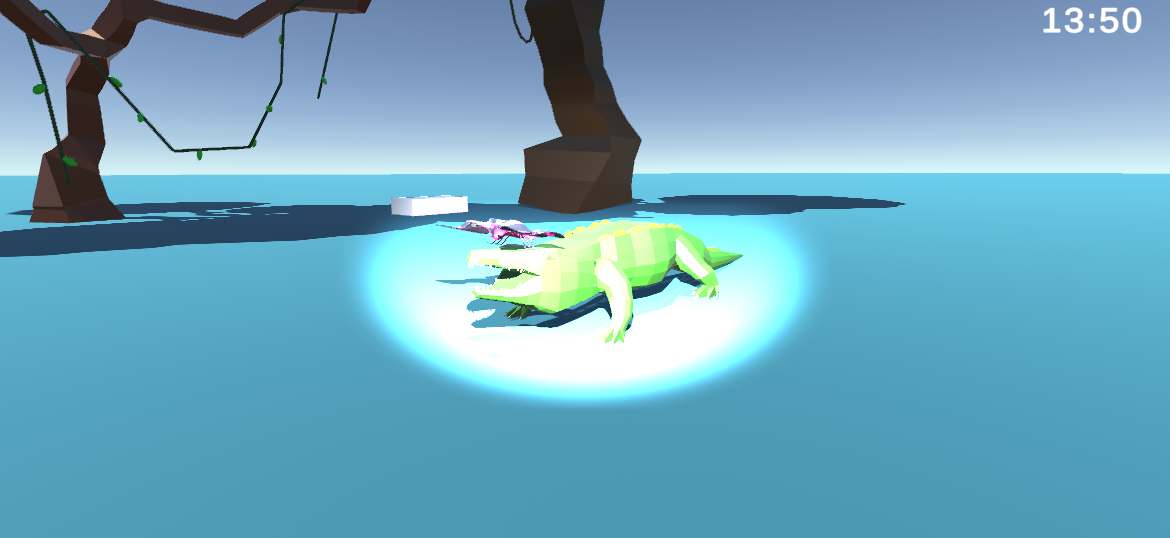
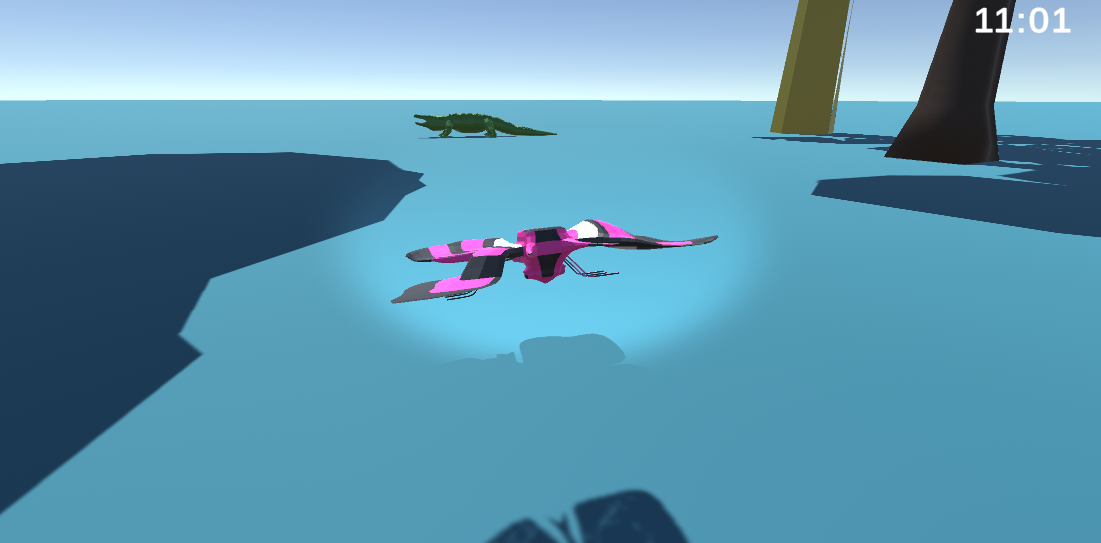
a

diff --git a/3D Project/Assets/Scipts/TimeController.cs b/3D Project/Assets/Scipts/TimeController.cs
@@ -58,6 +58,8 @@ public class TimeController : MonoBehaviour
 
     [SerializeField]
     private Light playerLight;
+    [SerializeField]
+    private Light flashLight;
     // Start is called before the first frame update
     void Start()
     {
@@ -88,7 +90,7 @@ public class TimeController : MonoBehaviour
     {
         float sunLightRotation;
 
-        if(currentTime.TimeOfDay > sunriseTime && currentTime.TimeOfDay < sunsetTime)
+        if (currentTime.TimeOfDay > sunriseTime && currentTime.TimeOfDay < sunsetTime)
         {
             TimeSpan sunriseToSunsetDuration = CalculateTimeDifference(sunriseTime, sunsetTime);
             TimeSpan timeSinceSunrise = CalculateTimeDifference(sunriseTime, currentTime.TimeOfDay);
@@ -102,6 +104,7 @@ public class TimeController : MonoBehaviour
             RenderSettings.ambientIntensity = 1f;
             RenderSettings.reflectionIntensity = 1f;
             playerLight.intensity = 0f;
+            flashLight.intensity = 1f;
         }
         else
         {
@@ -117,6 +120,7 @@ public class TimeController : MonoBehaviour
             RenderSettings.ambientIntensity = 0f;
             RenderSettings.reflectionIntensity = 0f;
             playerLight.intensity = 5f;
+            flashLight.intensity = 10f;
         }
 
         sunLight.transform.rotation = Quaternion.AngleAxis(sunLightRotation, Vector3.right);
@@ -142,7 +146,7 @@ public class TimeController : MonoBehaviour
     {
         TimeSpan difference = toTime - fromTime;
 
-        if(difference.TotalSeconds < 0)
+        if (difference.TotalSeconds < 0)
         {
             difference += TimeSpan.FromHours(24);
         }

diff --git a/3D Project/Assets/Scipts/Player/PlayerController.cs b/3D Project/Assets/Scipts/Player/PlayerController.cs
@@ -84,6 +84,8 @@ public class PlayerController : MonoBehaviour
 
     [SerializeField] GameObject diaryUI;
 
+    public GameObject apo;
+
 
     public enum MovementState
     {
@@ -108,6 +110,7 @@ public class PlayerController : MonoBehaviour
 
     private void Update()
     {
+        Debug.Log(Vector3.Distance(transform.position, apo.GetComponent<Transform>().position));
         // ground check
         grounded = Physics.Raycast(transform.position, Vector3.down, playerHeight * 0.5f, whatIsGround);
 
@@ -246,11 +249,15 @@ public class PlayerController : MonoBehaviour
             {
                 diaryUI.SetActive(false);
                 diaryOpen = false;
+                Cursor.visible = false;
+                Cursor.lockState = CursorLockMode.Locked;
             }
             else
             {
                 diaryUI.SetActive(true);
                 diaryOpen = true;
+                Cursor.visible = true;
+                Cursor.lockState = CursorLockMode.None;
             }
         }
     }
